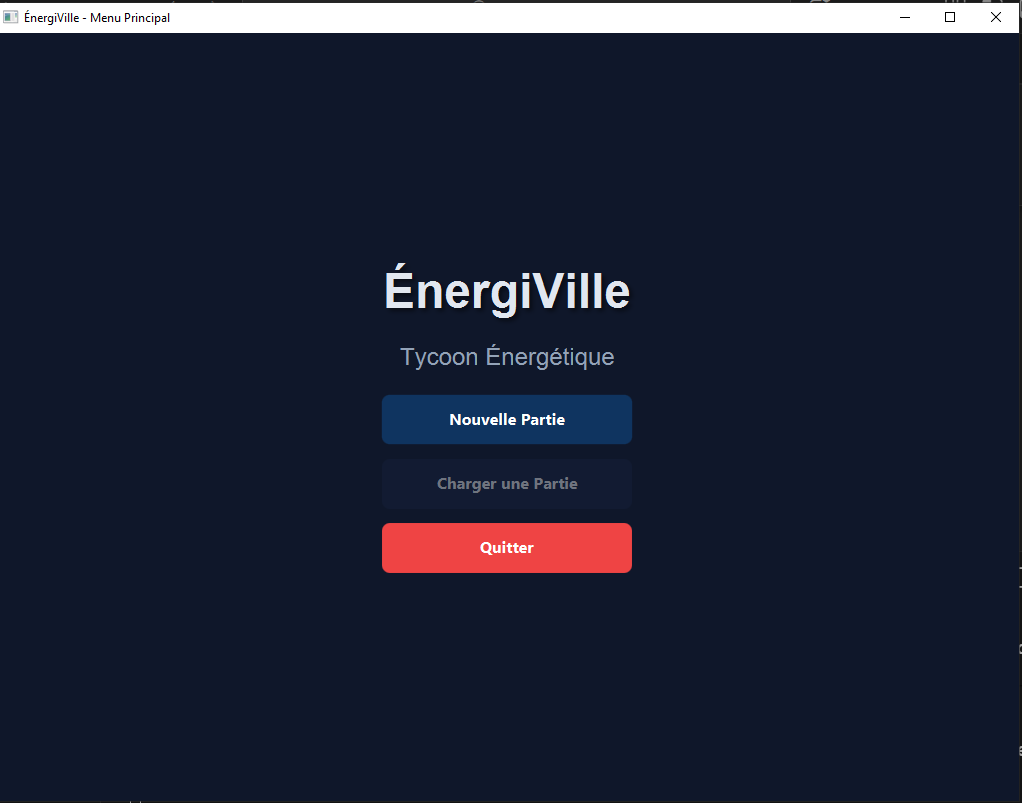
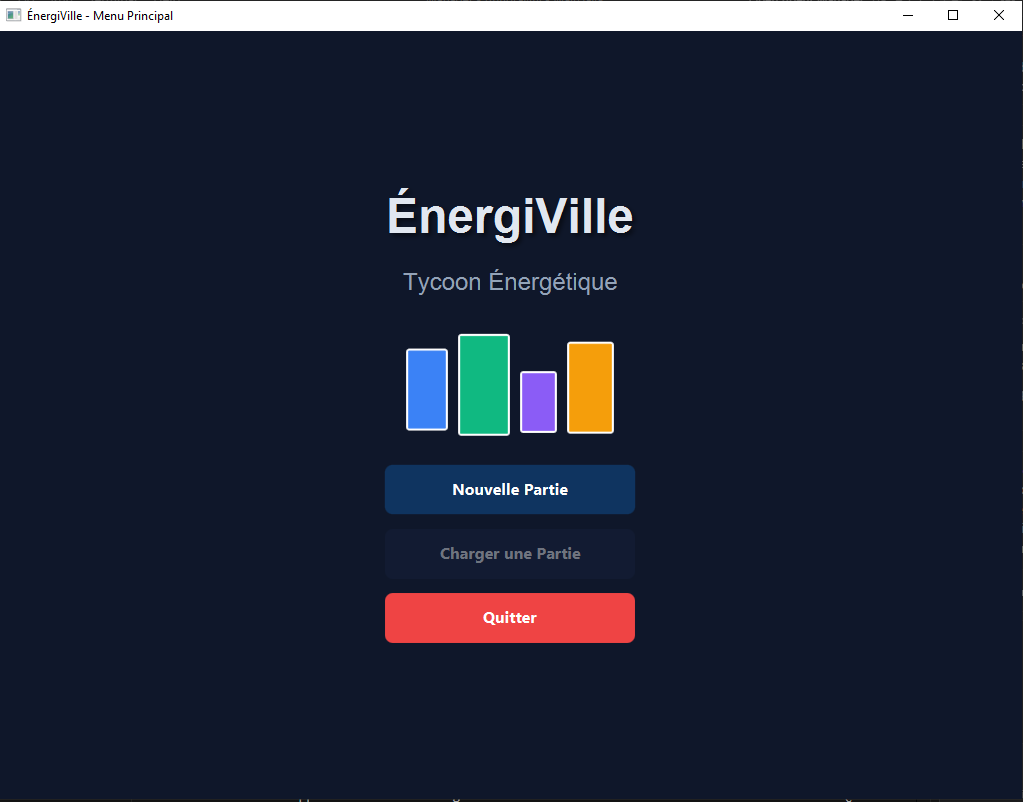
MODIF DU Readme

diff --git a/src/main/java/org/td/view/WelcomeView.java b/src/main/java/org/td/view/WelcomeView.java
@@ -51,6 +51,9 @@ public class WelcomeView {
         subtitleLabel.setFont(Font.font("Arial", FontWeight.NORMAL, 24));
         subtitleLabel.setTextFill(Color.web("#94a3b8"));
 
+        // Zone des bâtiments animés (NOUVEAU)
+        javafx.scene.layout.HBox buildingsContainer = createAnimatedBuildings();
+
         // Boutons
         VBox buttonsBox = new VBox(15);
         buttonsBox.setAlignment(Pos.CENTER);
@@ -67,13 +70,73 @@ public class WelcomeView {
         buttonsBox.getChildren().addAll(btnNewGame, btnLoadGame, btnQuit);
 
         // Assemblage
-        root.getChildren().addAll(titleLabel, subtitleLabel, buttonsBox);
+        root.getChildren().addAll(titleLabel, subtitleLabel, buildingsContainer, buttonsBox);
 
         // Scène
         Scene scene = new Scene(root, GameConfig.WINDOW_WIDTH, GameConfig.WINDOW_HEIGHT);
         stage.setScene(scene);
         stage.setTitle("ÉnergiVille - Menu Principal");
         stage.show();
+    }
+
+    private javafx.scene.layout.HBox createAnimatedBuildings() {
+        javafx.scene.layout.HBox container = new javafx.scene.layout.HBox(10);
+        container.setAlignment(Pos.BOTTOM_CENTER);
+        container.setMinHeight(120);
+
+        // Création de quelques "bâtiments" simples
+        javafx.scene.Node b1 = createBuildingShape(40, 80, Color.web("#3b82f6"));
+        javafx.scene.Node b2 = createBuildingShape(50, 100, Color.web("#10b981"));
+        javafx.scene.Node b3 = createBuildingShape(35, 60, Color.web("#8b5cf6"));
+        javafx.scene.Node b4 = createBuildingShape(45, 90, Color.web("#f59e0b"));
+
+        container.getChildren().addAll(b1, b2, b3, b4);
+
+        // Ajouter une instruction visuelle
+        javafx.scene.control.Tooltip.install(container,
+                new javafx.scene.control.Tooltip("Cliquez pour voir le thème !"));
+
+        return container;
+    }
+
+    private javafx.scene.Node createBuildingShape(double width, double height, Color color) {
+        javafx.scene.shape.Rectangle rect = new javafx.scene.shape.Rectangle(width, height, color);
+        rect.setArcWidth(5);
+        rect.setArcHeight(5);
+        rect.setStroke(Color.WHITE);
+        rect.setStrokeWidth(2);
+
+        // Animation "Respiration" (Translation haut/bas)
+        javafx.animation.TranslateTransition tt = new javafx.animation.TranslateTransition(
+                javafx.util.Duration.seconds(1.5), rect);
+        tt.setByY(-10); // Monte de 10 pixels
+        tt.setCycleCount(javafx.animation.Animation.INDEFINITE);
+        tt.setAutoReverse(true);
+        // Décalage aléatoire pour que tous ne bougent pas en même temps
+        tt.setDelay(javafx.util.Duration.seconds(Math.random()));
+        tt.play();
+
+        // Interaction
+        rect.setCursor(javafx.scene.Cursor.HAND);
+        rect.setOnMouseClicked(e -> showThemePresentation());
+
+        return rect;
+    }
+
+    private void showThemePresentation() {
+        javafx.scene.control.Alert alert = new javafx.scene.control.Alert(
+                javafx.scene.control.Alert.AlertType.INFORMATION);
+        alert.setTitle("Présentation du Thème");
+        alert.setHeaderText("ÉnergiVille : Gérez l'énergie de demain !");
+        alert.setContentText(
+                "Bienvenue dans ÉnergiVille !\n\n" +
+                        "Dans ce jeu de gestion, vous incarnez le maire d'une ville en pleine expansion.\n" +
+                        "Votre mission : Construire une ville durable en gérant l'approvisionnement énergétique.\n\n" +
+                        "⚡ Construisez des centrales (Solaire, Eolien, Hydro, etc.)\n" +
+                        "🏠 Alimentez les bâtiments résidentiels et industriels\n" +
+                        "💰 Gérez votre budget et l'impact écologique\n\n" +
+                        "Saurez-vous trouver l'équilibre entre croissance et écologie ?");
+        alert.showAndWait();
     }
 
     private Button createMenuButton(String text, String colorHex) {
